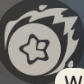
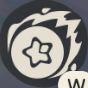
fix: fall back to Edge when Chrome not found

diff --git a/core/gui.py b/core/gui.py
@@ -309,5 +309,11 @@ def run_gui() -> None:
 
     eel.init(_web_dir)
     eel.spawn(_push_loop)
-    eel.start("index.html", mode="chrome", size=(1050, 720),
-              port=0, block=True, close_callback=_force_exit, shutdown_delay=0.5)
+    for mode in ("chrome", "edge"):
+        try:
+            eel.start("index.html", mode=mode, size=(1050, 720),
+                      port=0, block=True, close_callback=_force_exit, shutdown_delay=0.5)
+            break
+        except OSError:
+            if mode == "edge":
+                raise